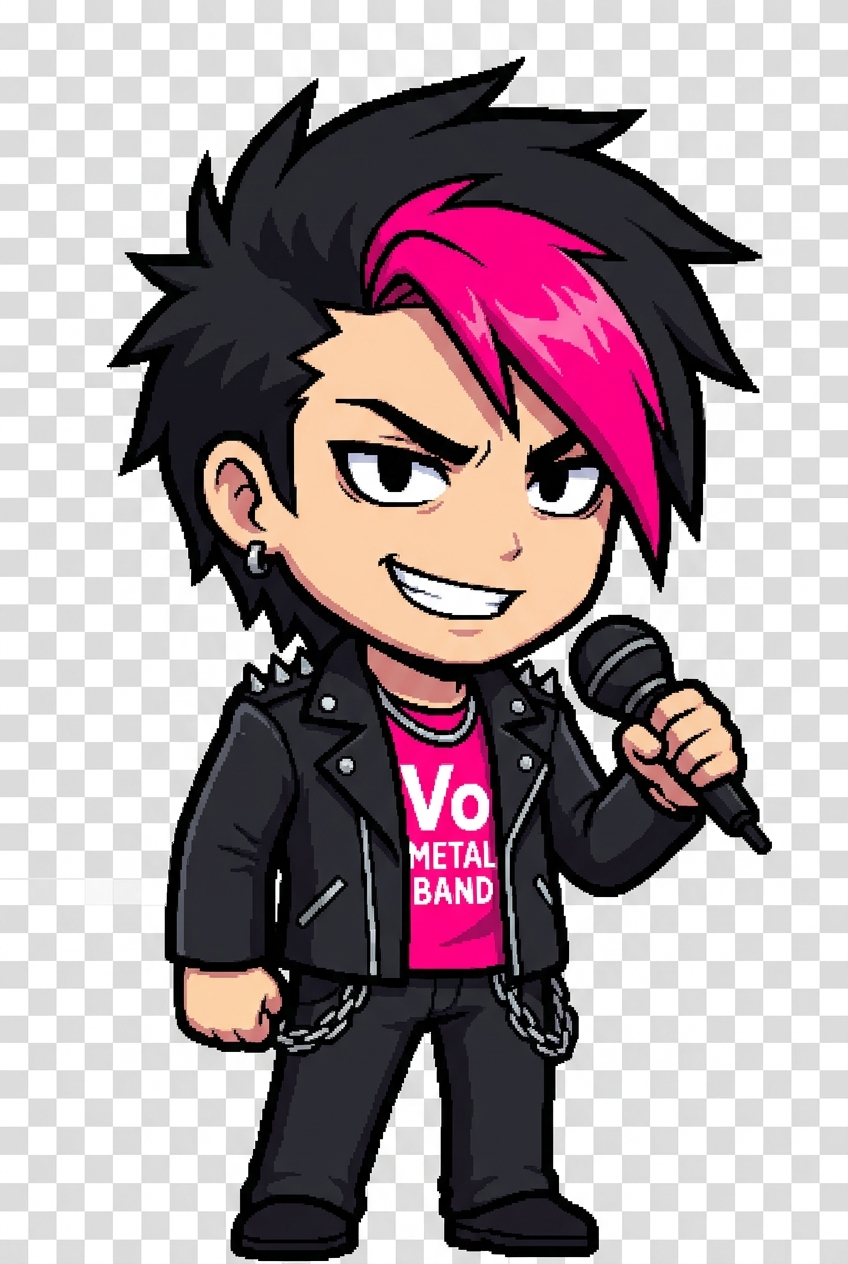
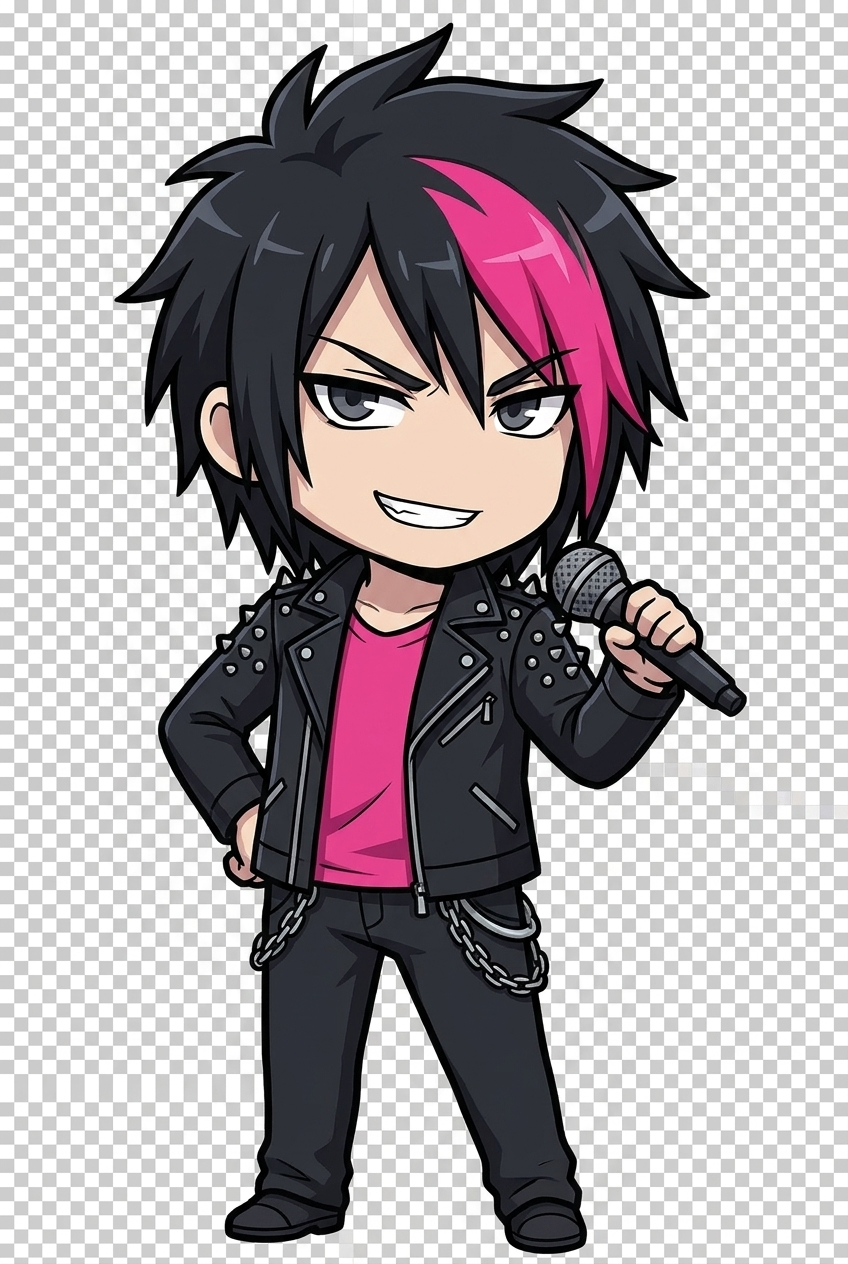
Add unified character sprites with expression variants
Generate normal/fired/happy/sad standing sprites for all four members
(RYO/KEN/MIO/GO) via the image-gen MCP (Gemini), unified to a single art
style by conditioning each on the same reference. Wire them into scenes:

- assets.ts: CHAR_SRC is now mood-keyed; charSrc(member, mood) resolves
  the versioned PNG (falls back to normal, then RYO).
- render.ts: scene slides pass the scene mood so the image swaps per mood,
  keeping the existing CSS mood effects.

Claude-Session: https://claude.ai/code/session_01SVLkNCUogbfNcZK1k4NKAa

diff --git a/src/ui/assets.ts b/src/ui/assets.ts
@@ -13,13 +13,27 @@ export const BG_SRC: Record<BgKey, string> = {
   backstage: `${base}assets/bg/backstage.svg`,
 };
 
-/** Character standing art, keyed by member name. */
-export const CHAR_SRC: Record<string, string> = {
-  RYO: `${base}assets/chars/ryo.svg`,
-  KEN: `${base}assets/chars/ken.svg`,
-  MIO: `${base}assets/chars/mio.svg`,
-  GO: `${base}assets/chars/go.svg`,
-};
+export type Mood = "normal" | "fired" | "happy" | "sad";
+const MOODS: Mood[] = ["normal", "fired", "happy", "sad"];
+
+// Character version per member. Bump when the look changes (see docs/assets.md);
+// the filename is `{id}.v{version}.{mood}.png`, so old versions stay on disk.
+const CHAR_VER: Record<string, number> = { RYO: 1, KEN: 1, MIO: 1, GO: 1 };
+
+/** Standing art per member, with one image per mood. */
+export const CHAR_SRC: Record<string, Record<Mood, string>> = Object.fromEntries(
+  Object.entries(CHAR_VER).map(([member, v]) => [
+    member,
+    Object.fromEntries(
+      MOODS.map((m) => [m, `${base}assets/chars/${member.toLowerCase()}.v${v}.${m}.png`]),
+    ) as Record<Mood, string>,
+  ]),
+);
 
 export const bgSrc = (k: BgKey): string => BG_SRC[k] ?? BG_SRC.studio;
-export const charSrc = (member: string): string => CHAR_SRC[member] ?? CHAR_SRC.RYO;
+
+/** Resolve a member's standing art for a mood, falling back to normal / RYO. */
+export const charSrc = (member: string, mood: Mood = "normal"): string => {
+  const set = CHAR_SRC[member] ?? CHAR_SRC.RYO;
+  return set[mood] ?? set.normal;
+};

diff --git a/src/ui/render.ts b/src/ui/render.ts
@@ -190,7 +190,7 @@ function sceneModal(ui: UiState): string {
   const chars = s.chars
     .map(
       (c) =>
-        `<img class="sc-char ${c.pos} mood-${c.mood ?? "normal"}" src="${charSrc(c.member)}" alt="${esc(c.member)}" />`,
+        `<img class="sc-char ${c.pos} mood-${c.mood ?? "normal"}" src="${charSrc(c.member, c.mood ?? "normal")}" alt="${esc(c.member)}" />`,
     )
     .join("");
   const speaker = s.speaker ? `<div class="sc-speaker">${esc(s.speaker)}</div>` : "";
